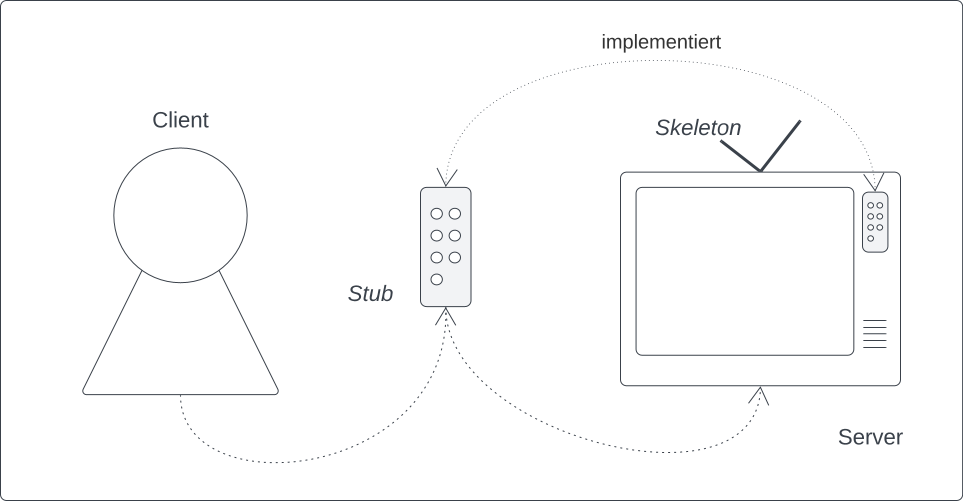
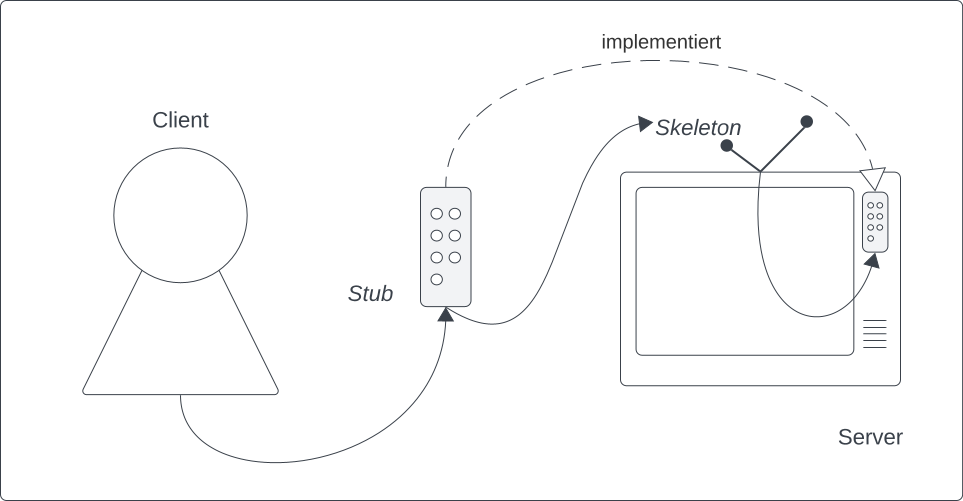
docs: update chapter fopt5 rmi

diff --git a/docs/repetitorium/chapters/fopt5/rmi.tex b/docs/repetitorium/chapters/fopt5/rmi.tex
@@ -38,7 +38,7 @@ $\rightarrow$ Ein \textbf{Skeleton} besitzt die Struktur eines \textbf{TCP}-Serv
 \end{figure}
 
 \begin{tcolorbox}
-    Struktur einer RMI Anwendung\footnote{vgl. im folgenden \cite[162 ff.]{HM05}; \textbf{Stubs} und \textbf{Skeletons} werden in unserem Fall automatisch generiert.}:\\
+    Struktur einer RMI Anwendung\footnote{vgl. im folgenden \cite[162 ff.]{HM05}; \textbf{Stubs} und \textbf{Skeletons} werden automatisch generiert.}:\\
 
 
     \noindent
@@ -78,6 +78,60 @@ $\rightarrow$ Ein \textbf{Skeleton} besitzt die Struktur eines \textbf{TCP}-Serv
 \begin{figure}
     \centering
     \includegraphics[scale=0.35]{chapters/fopt5/img/rmi/tv}
-    \caption{Eine Illustration der im Lehrbuch verwendeten RMI-Metapher. Ein Client will ein entferntes Objekt (TV) bedienen. Hierzu verwendet er Methodenaufrufe, die vom Stub (Fernbedienung) weitergeleitet werden. Die Methoden werden vom Skeleton (Fensehantennen) an das Objekt auf dem Server (TV) weitergeleitet. (Quelle: eigene)}
+    \caption{Eine Illustration der im Lehrbuch verwendeten RMI-Metapher. Ein Client will ein entferntes Objekt (TV) bedienen. Hierzu verwendet er Methodenaufrufe, die vom Stub (Fernbedienung) weitergeleitet werden. Die Methoden werden vom Skeleton (Fensehantennen) an das Objekt auf dem Server weitergeleitet. Dieses Objekt sind in dem Beispiel die Knöpfe an dem Fernseher, die die gleichen Bedienfunktionen (``Schnittstelle``) wie die Fernbedienung haben. (Quelle: eigene)}
     \label{fig:tv}
 \end{figure}
+
+\noindent
+Die \textbf{Transparenz} kommt für den Entwickler dadurch zustande, dass er nur Client und Server, nicht aber Stub und Skeleton programmieren muss.\\
+$\rightarrow$ \textbf{Stub} wird automatisch erzeugt, das \texbf{Skeleton}-Objekt ist ein Programmteil, der in der \textbf{RMI}-Implementierung dabei ist und für alle Anwendungen verwendet werden kann.\\
+
+\noindent
+Die Entwicklung einer \textbf{RMI}-Anwendung erfolgt i.d.R. in folgenden Schritten\footnote{
+s.a. ``An Overview of RMI Applications``: \url{https://docs.oracle.com/javase/tutorial/rmi/overview.html} - abgerufen 1.2.2024
+}:
+
+\begin{enumerate}
+    \item \textbf{Schnittstelle definieren}\\
+    \noindent
+    Die Schnittstelle zwischen Client & Server in Abhängigkeit von der Anwendung, die realisiert werden soll.\\
+    \noindent
+    Die Schnittstelle führt alle Methoden auf, die über \textbf{RMI} aufgerufen werden sollen.\\
+    \noindent
+    Die Schnittstelle muss aus \code{java.rmi.Remote} abgeleitet werden.\\
+    \noindent
+    Alle Methoden der Schnittstelle müssen mit \code{throws RemoteException} gekennzeichnet werden\footnote{
+    s.a. ``2.4.1 The java.rmi.Remote Interface``: \url{https://docs.oracle.com/javase/8/docs/platform/rmi/spec/rmi-objmodel5.html#a3459} - abgerufen 1.2.2024
+    }.
+
+    \item \textbf{Schnittstelle implementieren}\\
+    \noindent
+    Es wird eine Klasse geschrieben, die die im ersten Schritt definierte Schnittstelle implementiert.\\
+    \noindent
+    Einem Objekt davon muss \ul{von aussen über RMI} nutzbar sein - es muss exportiert werden können.
+    Dazu kann die implementierende Klasse von \code{UnicastRemoteObject} abgeleitet werden.\\
+    Es muss ein expliziter Konstruktor existieren, der mit \code{throws RemoteException} gekennzeichnet wird. \\
+    $\rightarrow$ Es muss mindestens ein expliziter Standard-Konstruktor existieren, der diese Bedingung erfüllt\footnote{
+    ansonsten wird vom Compiler ein Standard-Konstruktor zur Verfügung gestellt.
+    Da dieser aber keine checked Exception in Form einer \textit{RemoteException} wirft, kommt es zu einem Compilerfehler.
+    }
+
+    \item \textbf{Server programmieren}\\
+    \noindent
+    Man erzeugt eines oder mehrere Objekte der in Schritt 2 implementierten Klasse und meldet diese unter einem beliebigen Namen bei der \textbf{RMI-Registry} an.
+
+    \item \textbf{Client programmieren}\\
+    \noindent
+    Über die \textbf{RMI-Registry} (Serveradresse und Port müssen dem Client bekannt sein) beschafft sich der Client die in Schritt 3 registrieren Objekte, die als \textbf{Stub} an ihn weitergeleitet werden.\\
+    \noindent
+    Der Stub kann unter Berücksichtigung der in Schritt 1 definierten Schnittstelle so verwendet werden, als wäre es ein lokales Objekt\footnote{
+    ``lokal`` im Sinne von gleicher Prozess / gleicher Adressraum.
+    }.\\
+    \noindent
+    Die Methodenaufrufe werden dann letztendlich auf dem durch das in Schritt 2 definierte \textbf{RMI-Objekt} auf dem Server ausgeführt (Client $\rightarrow$ Stub $\rightarrow$ Skeleton $\rightarrow$ Server).
+
+    \item \textbf{Anwendung übersetzen und ausführen}\\
+    \noindent
+    Alle Dateien werden kompiliert.
+    Vor dem Starten des Programms ist darauf zu achten, dass auf dem Server die \textbf{RMI-Registry} gestartet wird - was aber auch aus dem Programm heraus geschehen kann.
+\end{enumerate}

diff --git a/docs/repetitorium/chapters/fopt3/einführung in uml.tex b/docs/repetitorium/chapters/fopt3/einführung in uml.tex
@@ -270,7 +270,7 @@ In Java können Schnittstellen gleichzeitig von mehreren Schnittstellen erben, w
 \begin{figure}
     \centering
     \includegraphics[scale=0.5]{chapters/fopt3/img/inheritance}
-    \caption{Beispiele für Vererbungs- und Implementierungsbeziehungen. (Quelle: eigene)}
+    \caption{Beispiele für Vererbungs- (a, c) und Implementierungsbeziehungen (b). (Quelle: eigene)}
     \label{fig:inheritance}
 \end{figure}
 

diff --git a/docs/repetitorium/chapters/3/index.tex b/docs/repetitorium/chapters/3/index.tex
@@ -292,7 +292,7 @@ Java Language Specification - 14.20.2. Execution of try-finally and try-catch-fi
                 return "Exception.";
 
             } finally {
-                System.out.println("finally.");
+                return "finally.";
             }
         }
 
